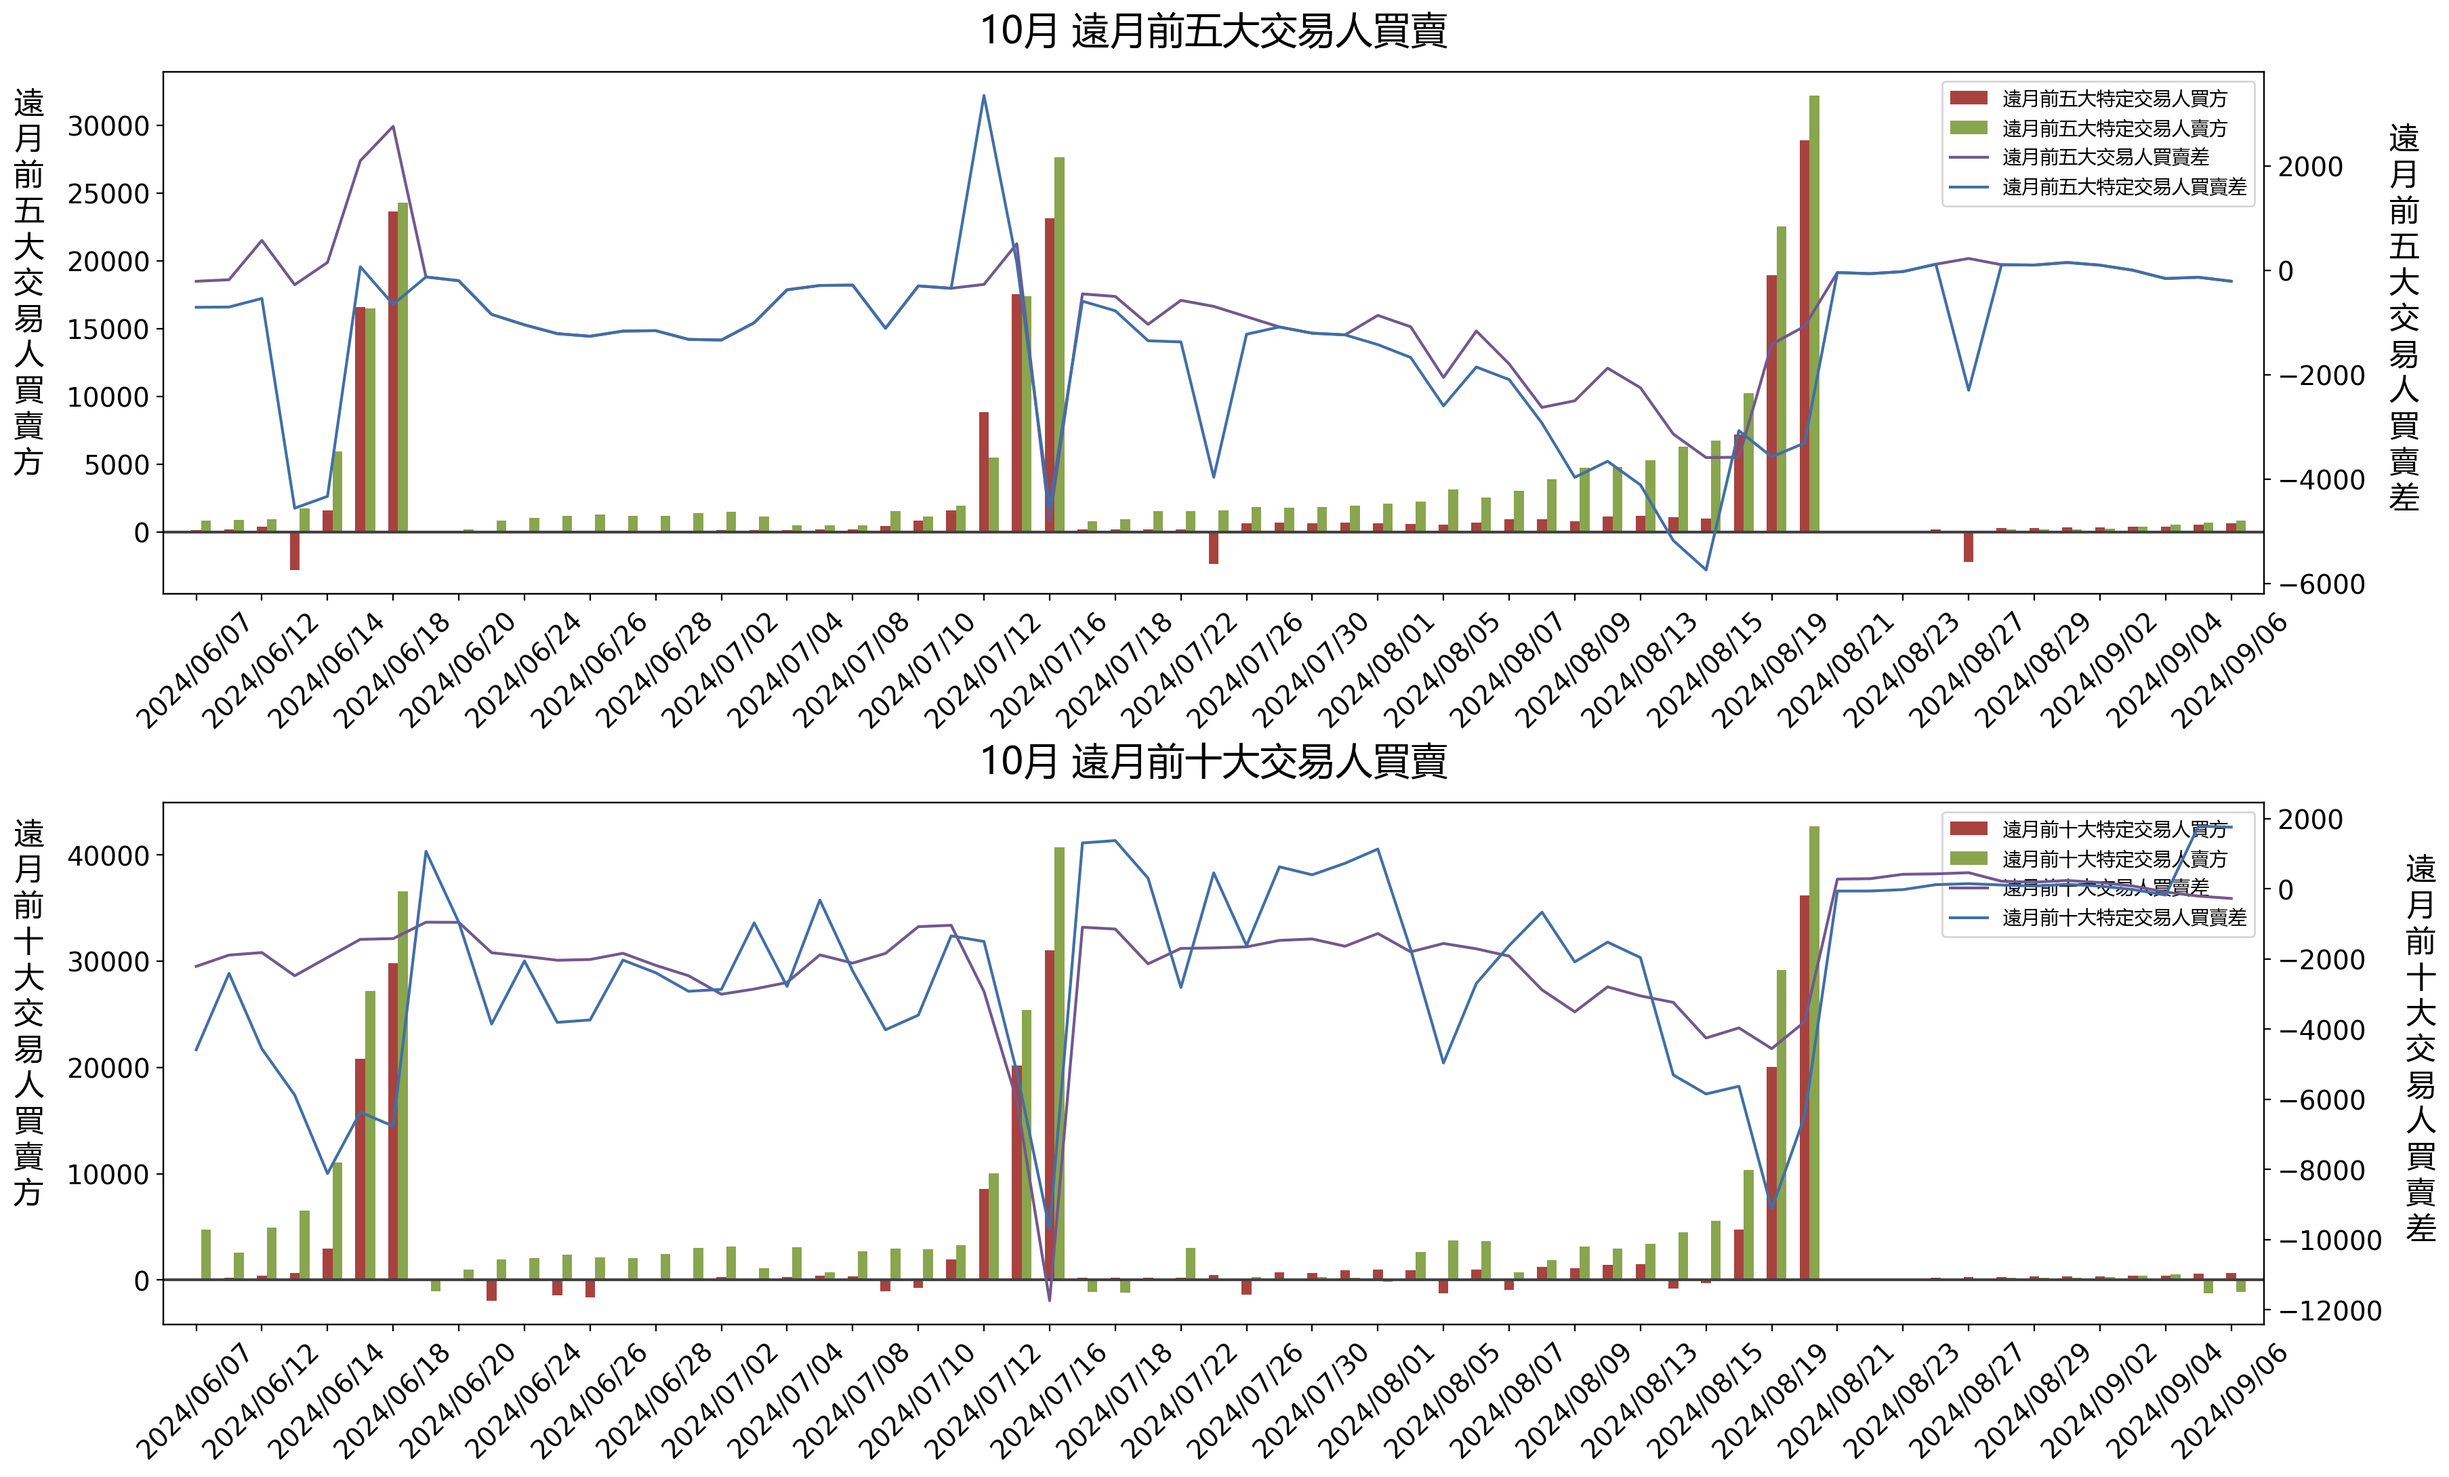
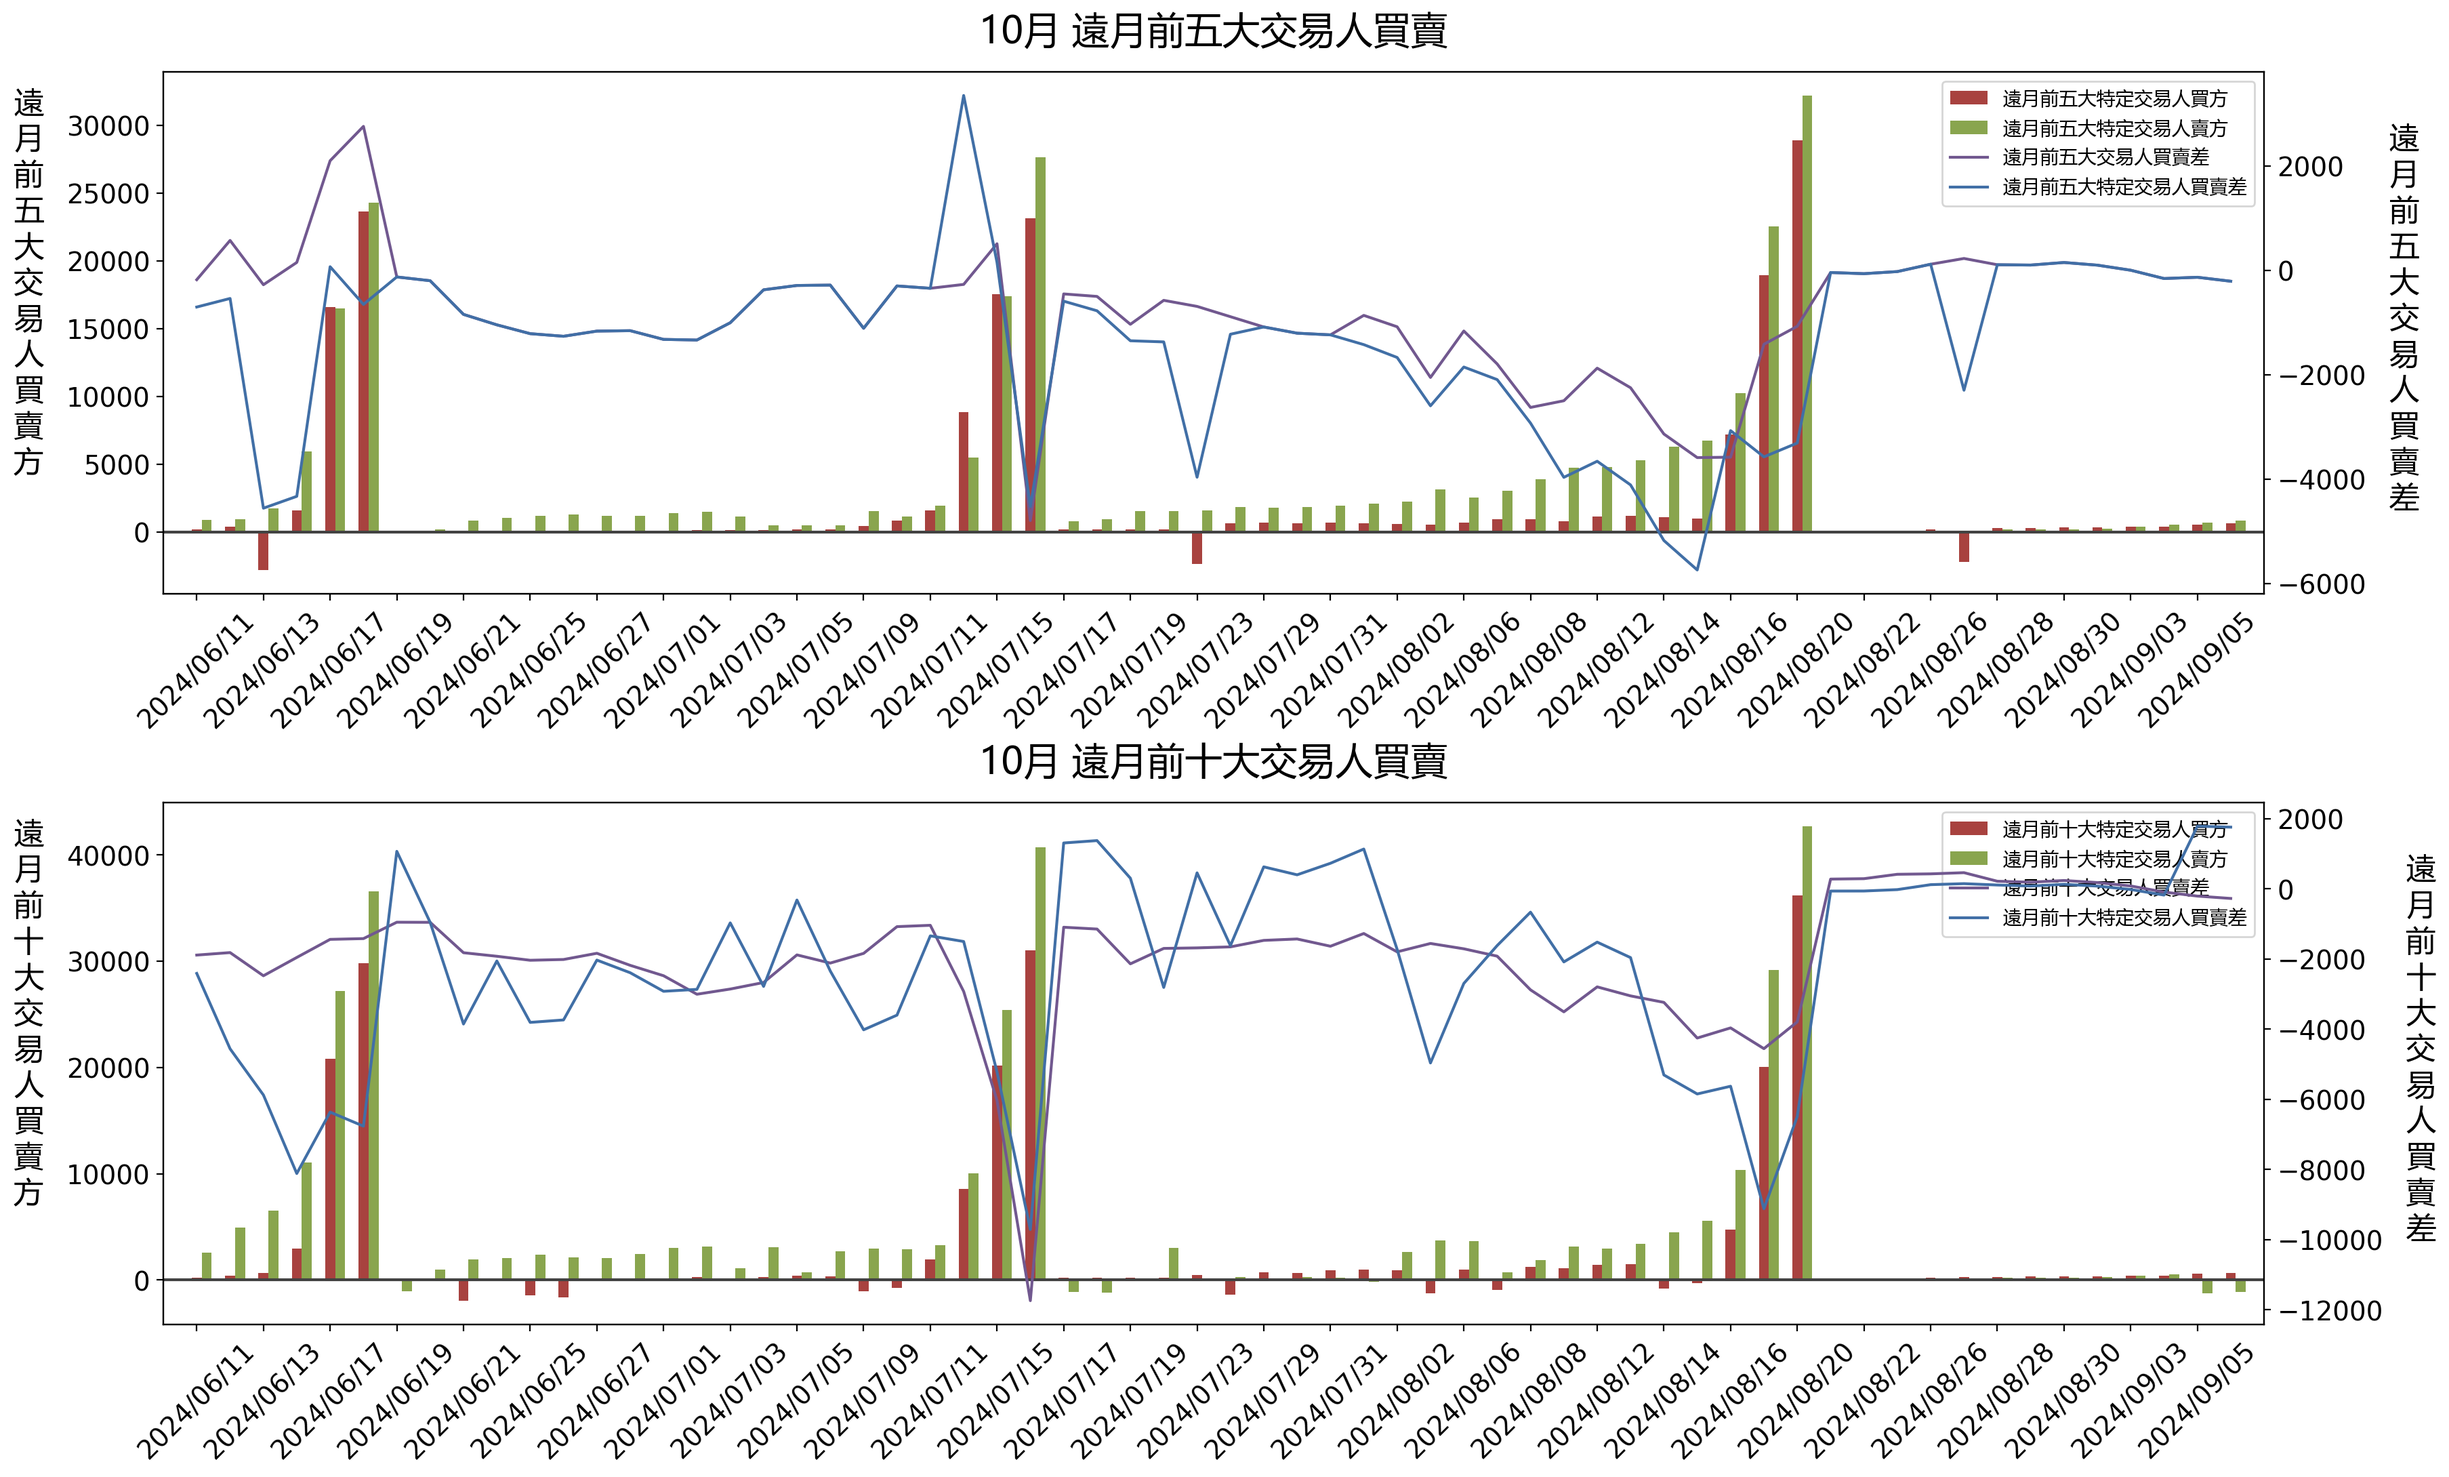
更新時間: Sun Sep  8 16:33:07 CST 2024

diff --git a/README.md b/README.md
@@ -1,12 +1,12 @@
-## 20240907 台指期「預估換倉成本」
+## 20240908 台指期「預估換倉成本」
 ![](images/txfcost.png)
 
-## 20240907 台指期「散戶小台多空比」
+## 20240908 台指期「散戶小台多空比」
 ![](images/bbiri.png)
 
-## 20240907 台指選擇權「Put/Call Ratios」
+## 20240908 台指選擇權「Put/Call Ratios」
 ![](images/pcratio.png)
 
-## 20240907 台指期「大額交易人」
+## 20240908 台指期「大額交易人」
 ![](images/blocktrade.png)
 
